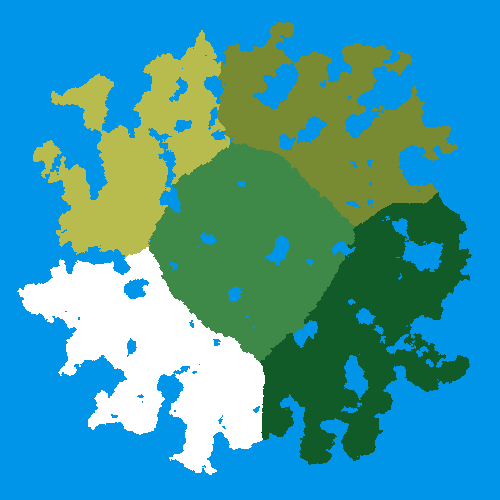
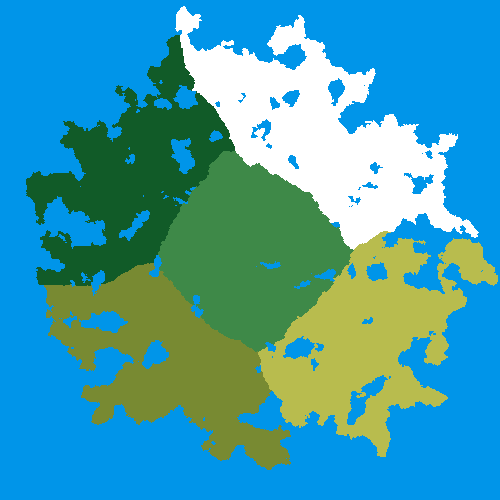
add map gen

diff --git a/src/main.cpp b/src/main.cpp
@@ -34,7 +34,7 @@ int main()
 {
 	// TOGGLE this if you don't want a new map every time...
 	int mapWidth = 500, mapHeight = 500; 
-	if (false) {
+	if (true) {
 		auto generated_map = create_map(mapWidth, mapHeight);
 		create_background(generated_map);
 		create_biome_map(generated_map);
